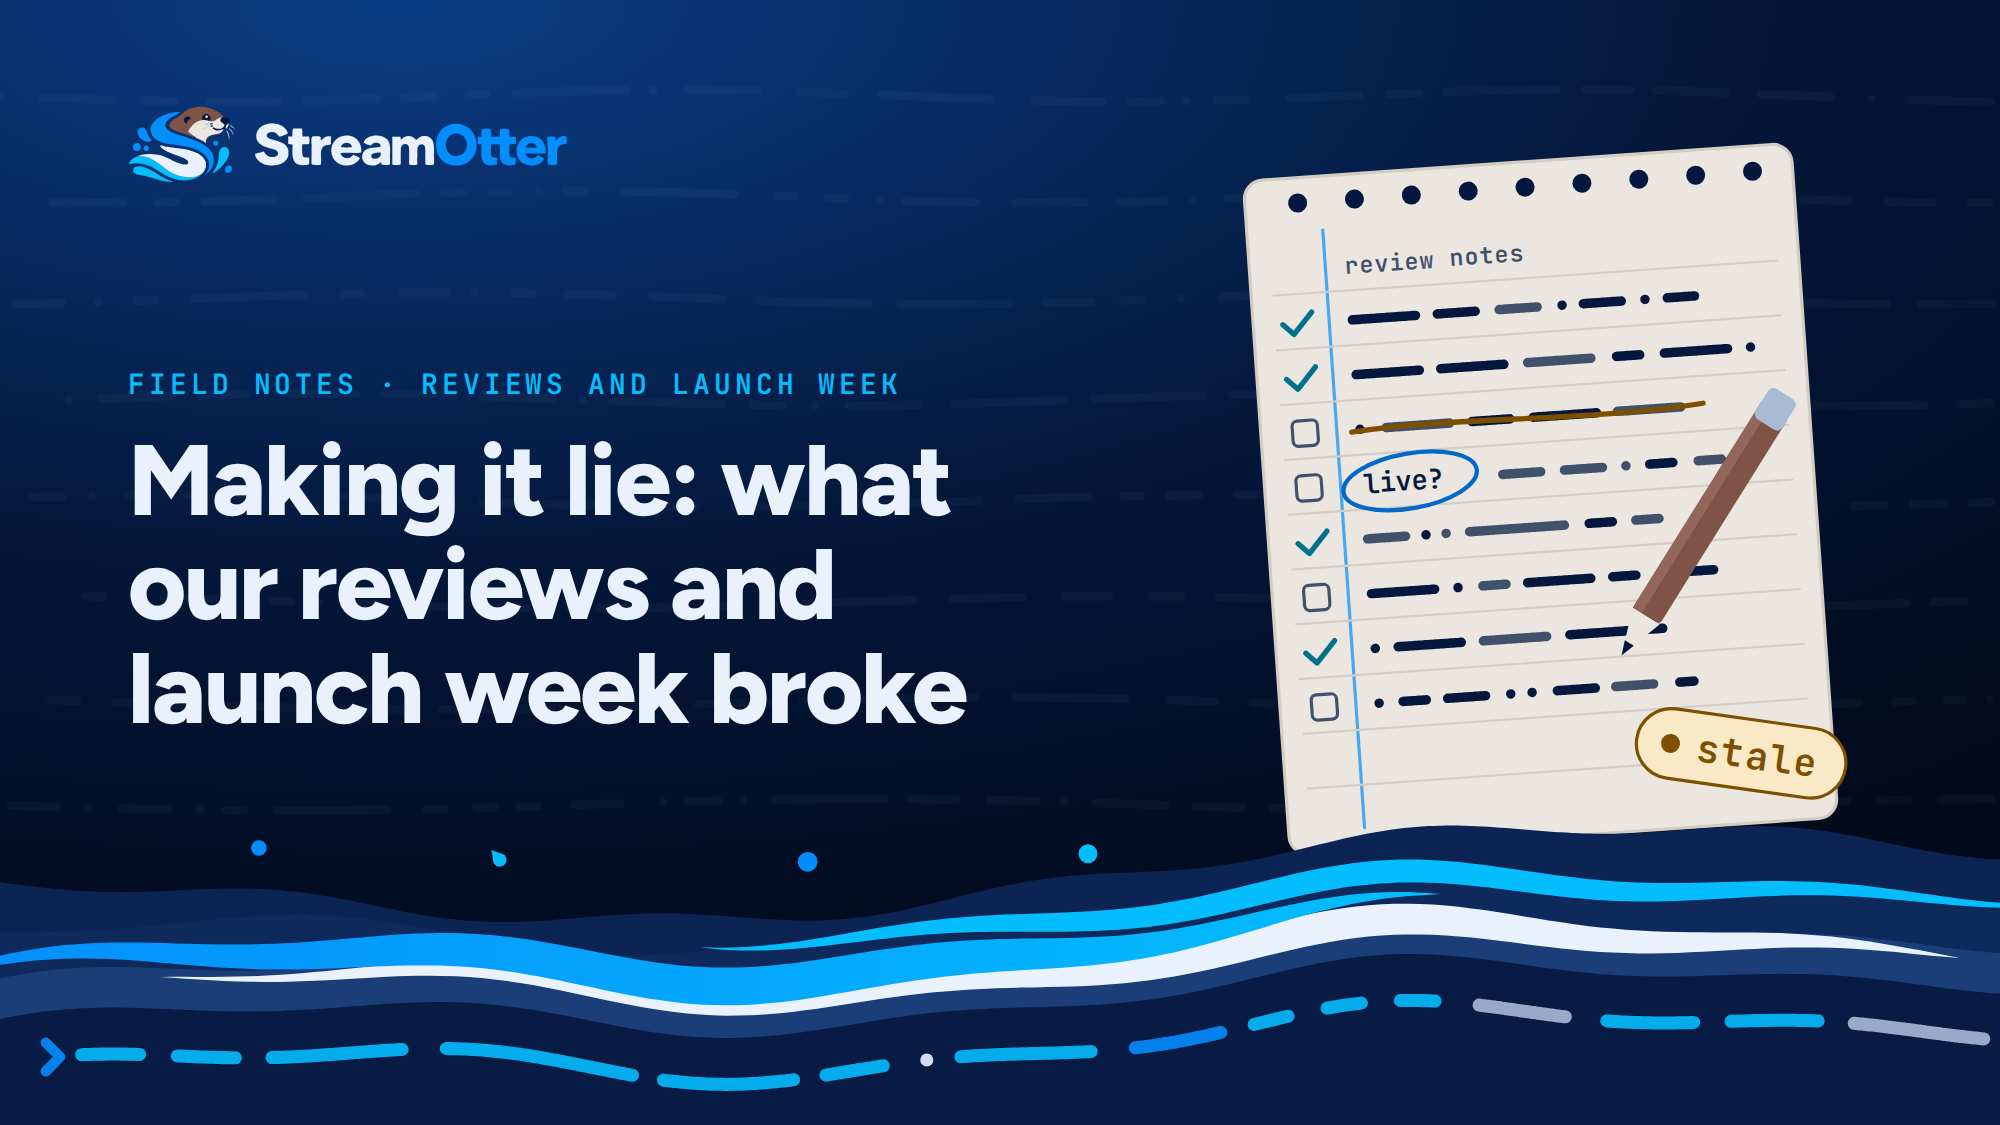
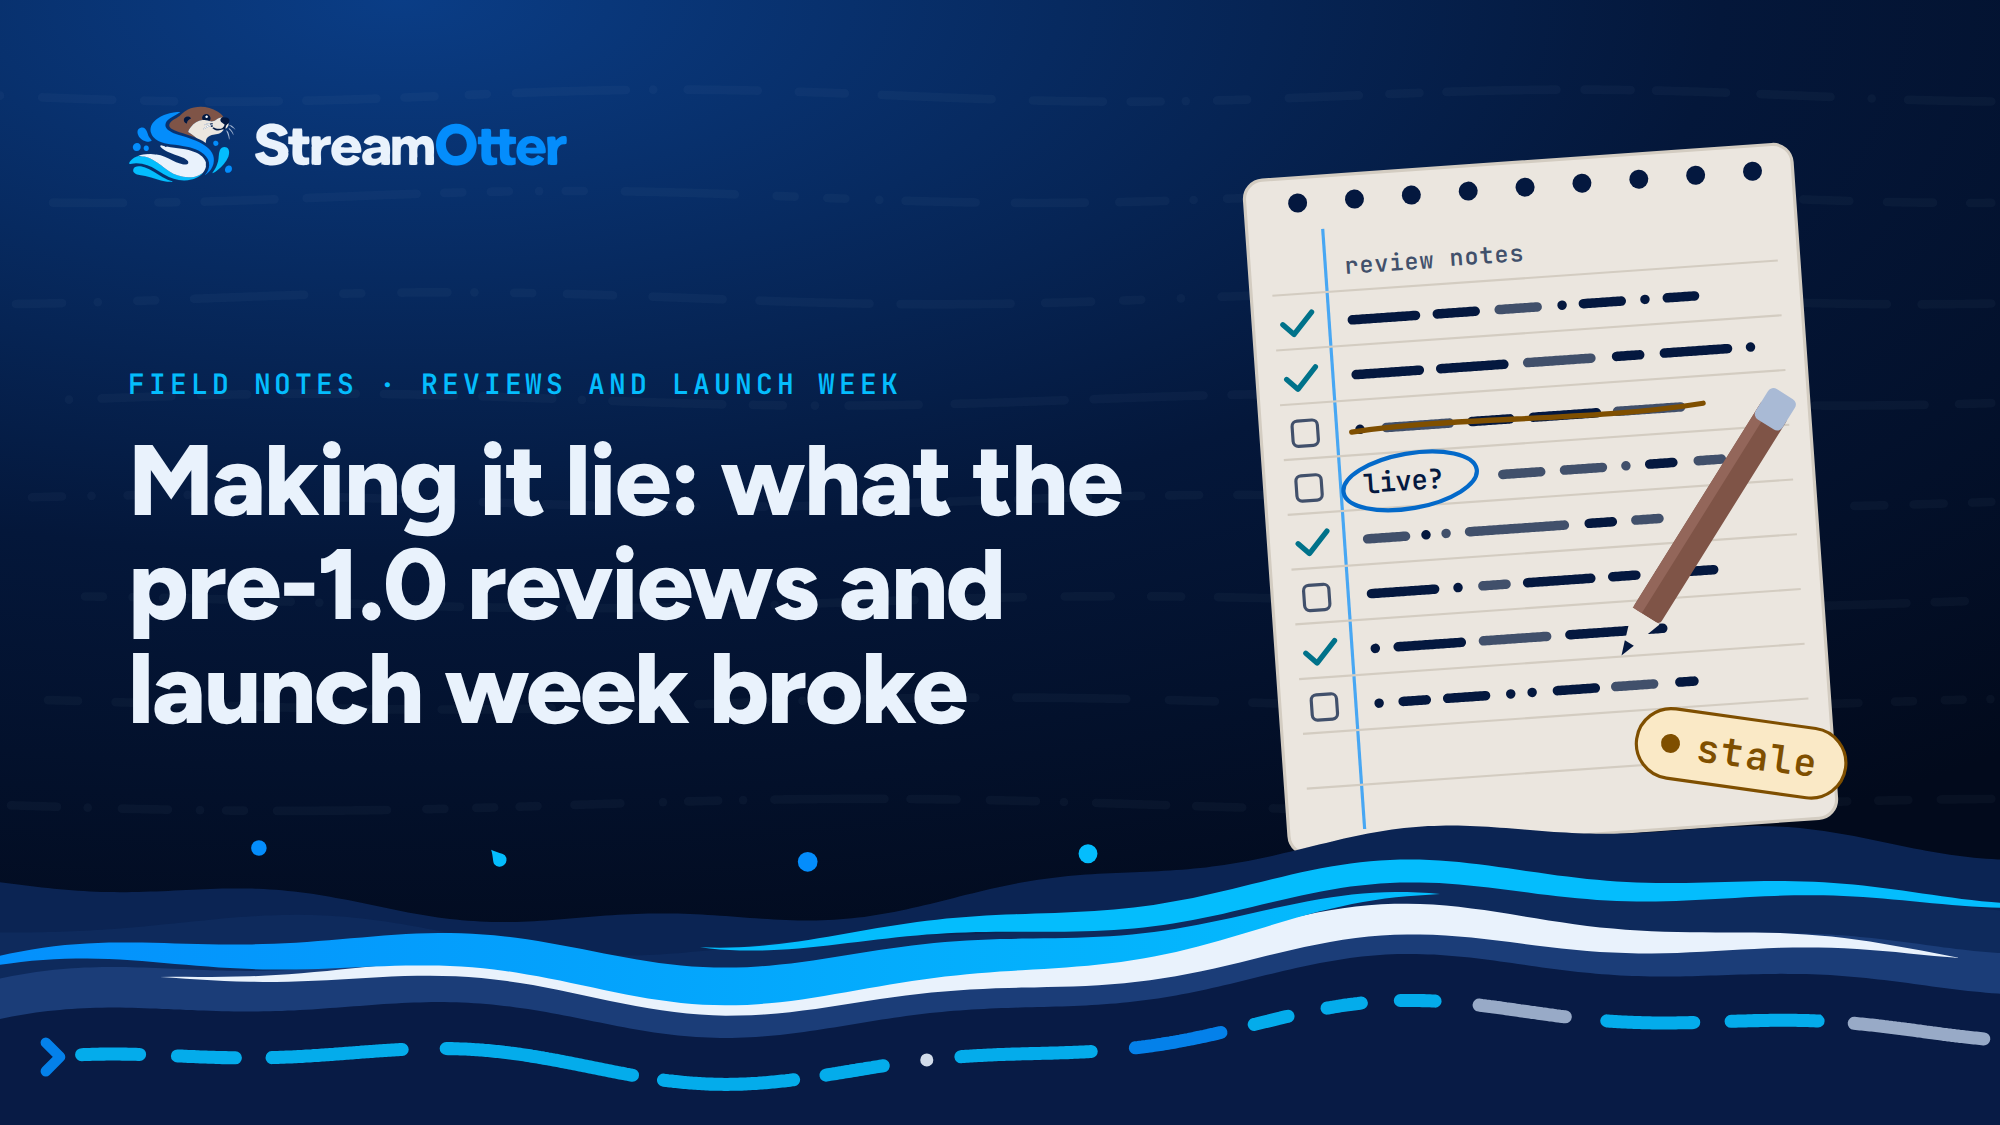
Launch cards: outreach notes (neutral recording subtitle, local-stack label, repo link, article title)

Changed region(s): [[0.062, 0.4667, 0.527, 0.56], [0.465, 0.4044, 0.558, 0.4667]]

diff --git a/docs/assets/source/templates/social-recording-title.html b/docs/assets/source/templates/social-recording-title.html
@@ -3,7 +3,7 @@
 <meta name="output" content="../../social/recording-title.png">
 <meta name="size" content="1920x1080">
 <!-- Title card for the silent Failure Lab screen recording.
-     Before publishing, set DATE and VERSION below (one string each) and re-render: node render.mjs social-recording -->
+     Before publishing, set DATE, VERSION and (if needed) WHERE below and re-render: node render.mjs social-recording -->
 <link rel="stylesheet" href="../brand.css">
 <link rel="stylesheet" href="launch-motifs.css">
 <script src="social-motifs.js"></script>
@@ -26,15 +26,16 @@
   <div class="layer copy">
     <div class="eyebrow">Screen recording</div>
     <div class="head">Failure Lab</div>
-    <div class="sub">Foul a sensor, cut the relay, stall a laptop, restart the gateway.<br>Every view either stays <em class="l">live</em> or says it isn’t.</div>
+    <div class="sub">Break the pipeline on purpose and watch the views.<br>Every view either stays <em class="l">live</em> or says it isn’t.</div>
   </div>
   <div class="layer slate" id="slate"></div>
 </div>
 <script>
   const DATE = "2026-10-XX";
   const VERSION = "X.Y.Z";
+  const WHERE = ""; // e.g. "local stack" when the recording isn't the hosted demo
   document.getElementById("slate").innerHTML =
-    `Recording · <b>${DATE}</b> · <b>streamotter@${VERSION}</b> · Lontra Creek is fictional; the Kafka pipeline is real.`;
+    `Recording · <b>${DATE}</b> · <b>streamotter@${VERSION}</b>${WHERE ? ` · <b>${WHERE}</b>` : ""} · Lontra Creek is fictional; the Kafka pipeline is real.`;
   const W = 1920, H = 1080;
   const c = SO.creek(W, H, { top: 1000, rise: 40, seed: 25, scale: 1.2, streams: 1, phase: 1.7, drops: false });
   let o = SO.texture(W, H, { rows: 9, y0: 30, y1: 800, opacity: 0.04, width: 7 });

diff --git a/docs/assets/source/templates/social-recording-label.html b/docs/assets/source/templates/social-recording-label.html
@@ -1,0 +1,23 @@
+<!doctype html>
+<html><head><meta charset="utf-8">
+<meta name="output" content="../../social/recording-label-local.png">
+<meta name="size" content="744x72">
+<meta name="transparent" content="true">
+<!-- Corner label for recording segments filmed on a local stack rather than the hosted demo.
+     Overlay it on every frame of such a segment. Re-render: node render.mjs social-recording-label -->
+<link rel="stylesheet" href="../brand.css">
+<link rel="stylesheet" href="launch-motifs.css">
+<style>
+  html, body { background: transparent; }
+  .tag { position: absolute; inset: 6px; border-radius: 999px; background: rgba(4, 24, 63, 0.88); border: 2px solid var(--panel-line);
+    display: flex; align-items: center; gap: 14px; padding: 0 24px; font: 600 24px/1 var(--mono); color: var(--light-ink); white-space: nowrap; }
+  .dot { width: 12px; height: 12px; border-radius: 50%; background: var(--stale); flex: none; }
+  .tag span { color: var(--whisker); font-weight: 500; }
+</style></head>
+<body>
+<div class="tag"><i class="dot"></i>Recording · local stack<span id="note"></span></div>
+<script>
+  const NOTE = " · not the hosted demo";
+  document.getElementById("note").textContent = NOTE;
+</script>
+</body></html>

diff --git a/docs/assets/source/templates/social-make-it-lie.html b/docs/assets/source/templates/social-make-it-lie.html
@@ -25,7 +25,7 @@
     <div class="head">Can you make it&nbsp;lie?</div>
     <div class="body">Break it on purpose. Get a view to say <code>live</code> while it’s wrong, or get a bad record skipped silently, and file it. <strong>Credit in the changelog, if you want it.</strong></div>
   </div>
-  <div class="layer url"><b>→</b> github.com/jfricano/StreamOtter/issues</div>
+  <div class="layer url"><b>→</b> github.com/jfricano/StreamOtter</div>
 </div>
 <script>
   const W = 1200, H = 630;

diff --git a/docs/assets/source/templates/article-titles.js b/docs/assets/source/templates/article-titles.js
@@ -12,6 +12,6 @@ window.ARTICLES = {
   // (2) "Making it lie", the owner's own short piece after launch week.
   "making-it-lie": {
     eyebrow: "Field notes · reviews and launch week",
-    title: "Making it lie: what our reviews and launch week broke",
+    title: "Making it lie: what the pre-1.0 reviews and launch week broke",
   },
 };

diff --git a/docs/assets/README.md b/docs/assets/README.md
@@ -106,7 +106,8 @@ PNG cards for link previews, social posts, articles and recordings. None prints 
 | `social/article-*-og.png` | 1200 × 630 | Link cards for the two launch articles: the 1.0 announcement and "Making it lie". `article-1-0-launch-og` shows "1.0": publish it only with that release |
 | `articles/article-*.png` | 2000 × 1125 | Blog and Medium headers for the same two articles. `article-1-0-launch` shows "1.0": publish it only with that release |
 | `articles/lineage-strip.png`, `-dark.png`, `-square.png` | 2000 × 840, 1200 × 1200 | Earlier open-source work on getting Kafka to the browser (b/kafka-websocket, KafkaSocks, kafka-penguin) and where StreamOtter picks up, with no dates and no other projects' logos |
-| `social/recording-title.png`, `recording-end.png` | 1920 × 1080 | Title and end cards for a Failure Lab screen recording. The title card's date and version are placeholders (`2026-10-XX`, `X.Y.Z`): set `DATE` and `VERSION` in its template and re-render before use |
+| `social/recording-title.png`, `recording-end.png` | 1920 × 1080 | Title and end cards for a Failure Lab screen recording. The title card's date and version are placeholders (`2026-10-XX`, `X.Y.Z`): set `DATE`, `VERSION` and, for a local recording, `WHERE` in its template and re-render before use |
+| `social/recording-label-local.png` | 744 × 72, transparent | Corner label for recording segments filmed on a local stack instead of the hosted demo; overlay it on every frame of such a segment |
 | `social/gif-caption.png` | 1200 × 80 | Caption strip for the home page's "Drop my connection" GIF. Its date is a placeholder: set `DATE` in its template and re-render |
 | `social/kafkasocks-banner-draft.png` | 1280 × 220 | A draft README banner for the KafkaSocks co-authors to consider. Not for use without their agreement |
 
